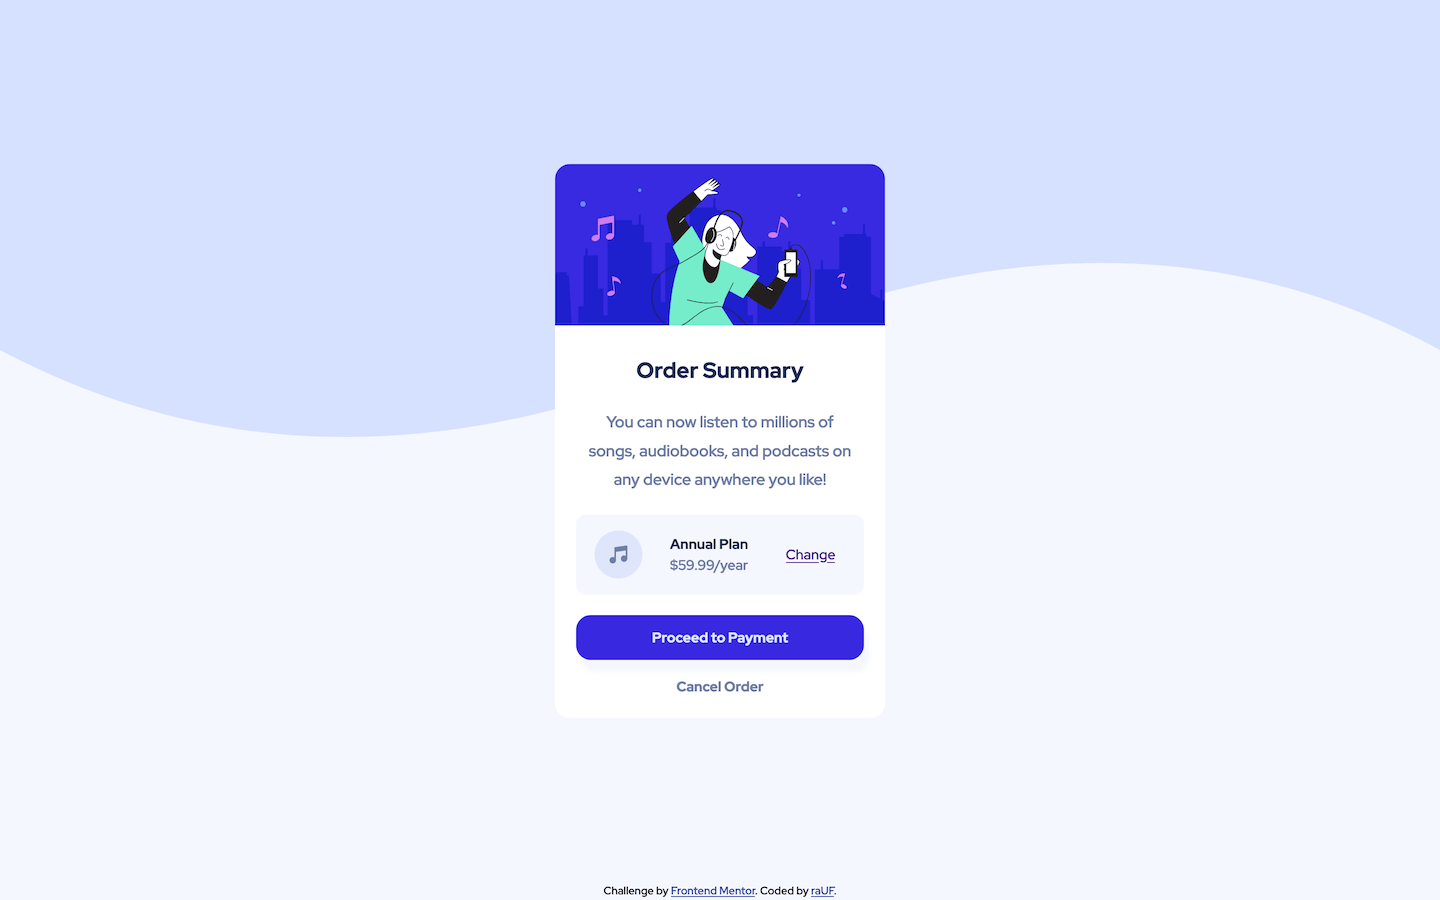
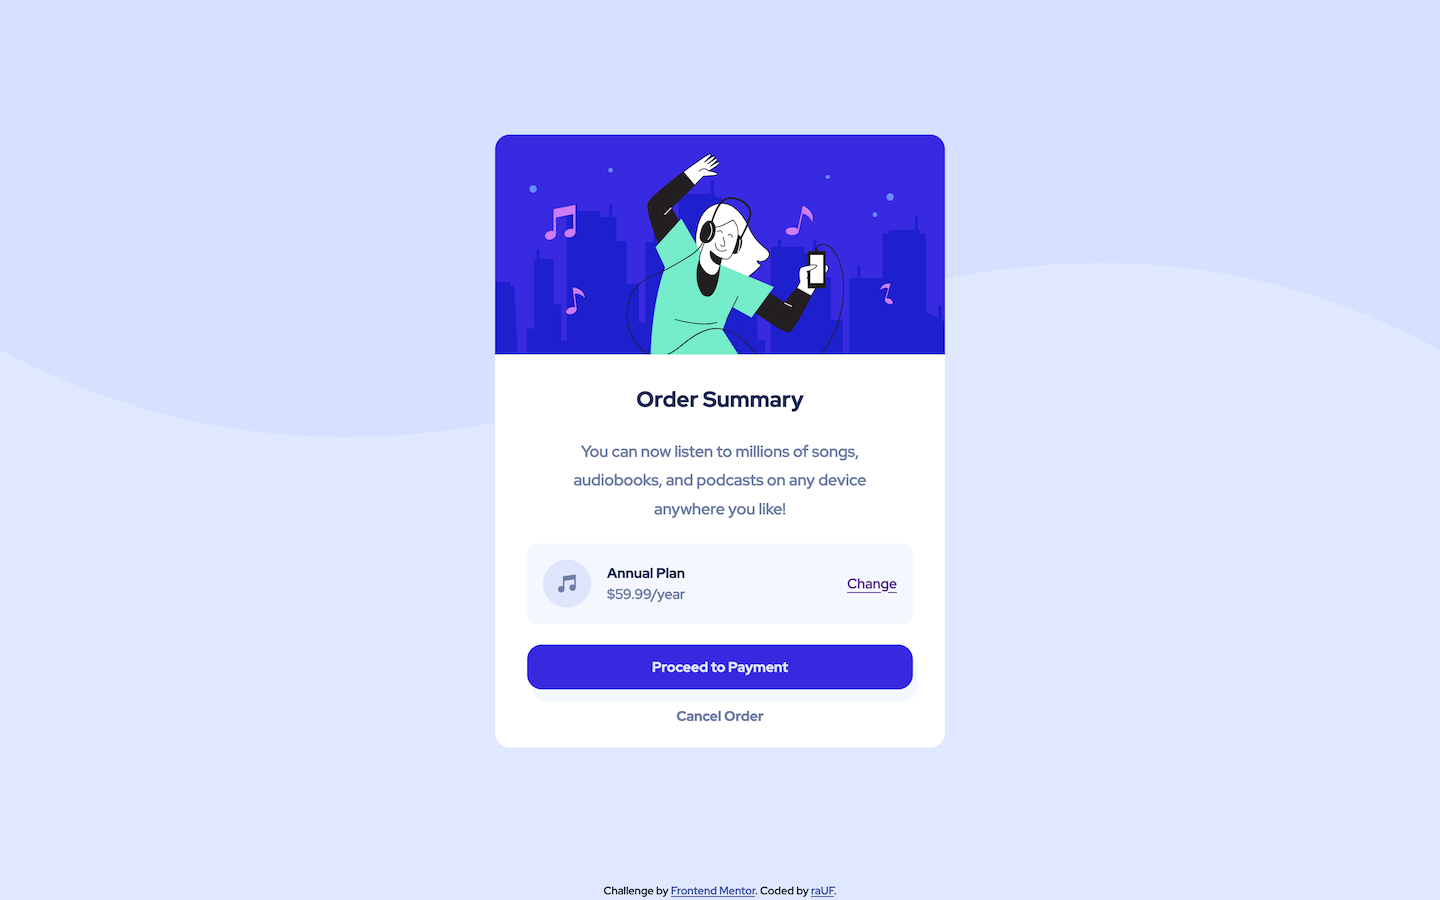
corrected active state colors with feedback from fm. Corrected horizontal spacing for pricing div elements which were skewed after increasing card width.

Changed region(s): [[0.3438, 0.1244, 0.6562, 0.8089], [0.5938, 0.6222, 0.625, 0.6533]]

diff --git a/style.css b/style.css
@@ -91,7 +91,8 @@ select {
 }
 /* ########### END CSS RESET ############  */
 body {
-  background-color: var(--very-pale-blue);
+  background-color: #e0e8ff;
+  /* background-color: var(--very-pale-blue); */
 }
 main {
   display: flex;
@@ -106,8 +107,9 @@ main {
   left: 0;
   top: 0;
   width: 100%;
-  object-fit: cover;
   z-index: -1;
+  background-repeat: no-repeat;
+  object-fit: contain;
 }
 .mobileBackground {
   position: absolute;
@@ -115,7 +117,7 @@ main {
   left: 0;
   top: 0;
   width: 100%;
-  object-fit: cover;
+  object-fit: contain;
   z-index: -1;
 }
 @media (max-width: 376px) {
@@ -141,7 +143,7 @@ main {
   border-radius: 15px 15px 0 0;
 }
 .card-body {
-  margin: 0 1.3rem;
+  margin: 0 2rem;
   font-size: 14px;
 }
 .card-body-item {
@@ -163,7 +165,7 @@ p {
 }
 .plans {
   display: flex;
-  justify-content: space-around;
+  justify-content: flex-start;
   align-items: center;
   width: 100%;
   height: 80px;
@@ -171,9 +173,13 @@ p {
   border-radius: 10px;
 }
 .plansLeft {
-  padding: 10px;
+  /* padding: 10px; */
+  margin-left: 1rem;
+  margin-right: 1rem;
 }
-
+.plans-middle {
+  margin-left: auto;
+}
 .plansMiddle-upper {
   font-weight: bold;
   display: block;
@@ -183,11 +189,14 @@ p {
   color: var(--desaturated-blue);
 }
 .plansRight {
-  padding: 20px;
+  /* padding: 20px; */
+  margin-left: auto;
+  margin-right: 1rem;
 }
 .plansRight:hover {
   cursor: pointer;
   text-decoration: none;
+  color: rgba(89, 31, 141, 0.5);
 }
 .buttons {
   display: flex;
@@ -204,14 +213,14 @@ p {
   margin-bottom: 1rem;
 }
 .button-proceed {
-  box-shadow: 5px 12px 5px 0px var(--very-pale-blue);
+  box-shadow: 5px 12px 1px 0px var(--very-pale-blue);
   background-color: var(--bright-blue);
   color: var(--pale-blue);
   border: 0;
 }
 .button-proceed:hover {
   cursor: pointer;
-  background-color: #551a8b;
+  background-color: rgba(56, 41, 224, 0.5);
 }
 .button-cancel {
   text-decoration: none;
